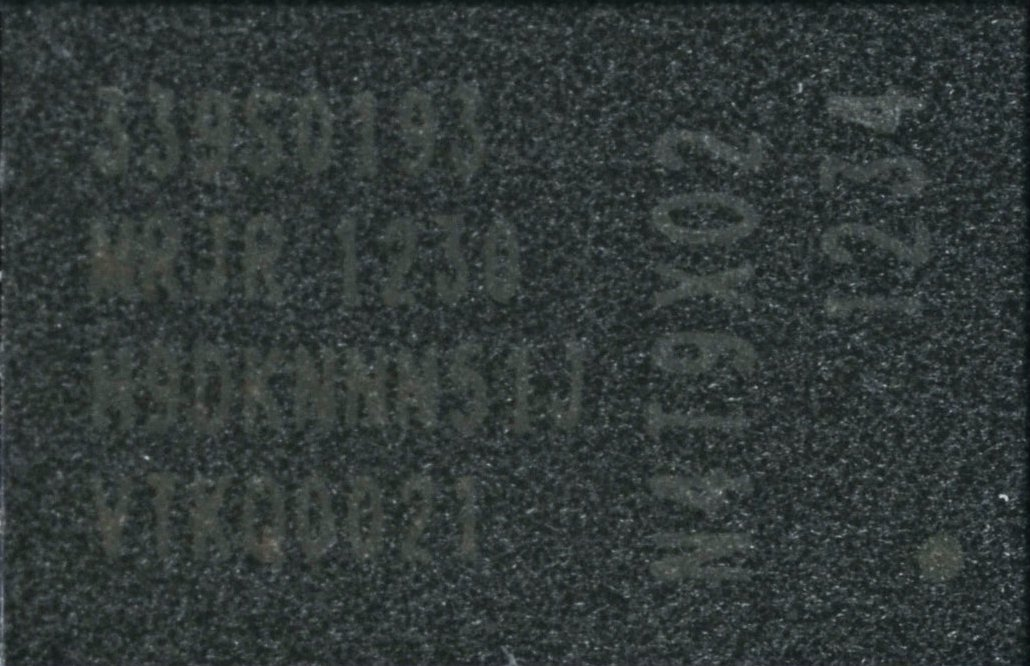
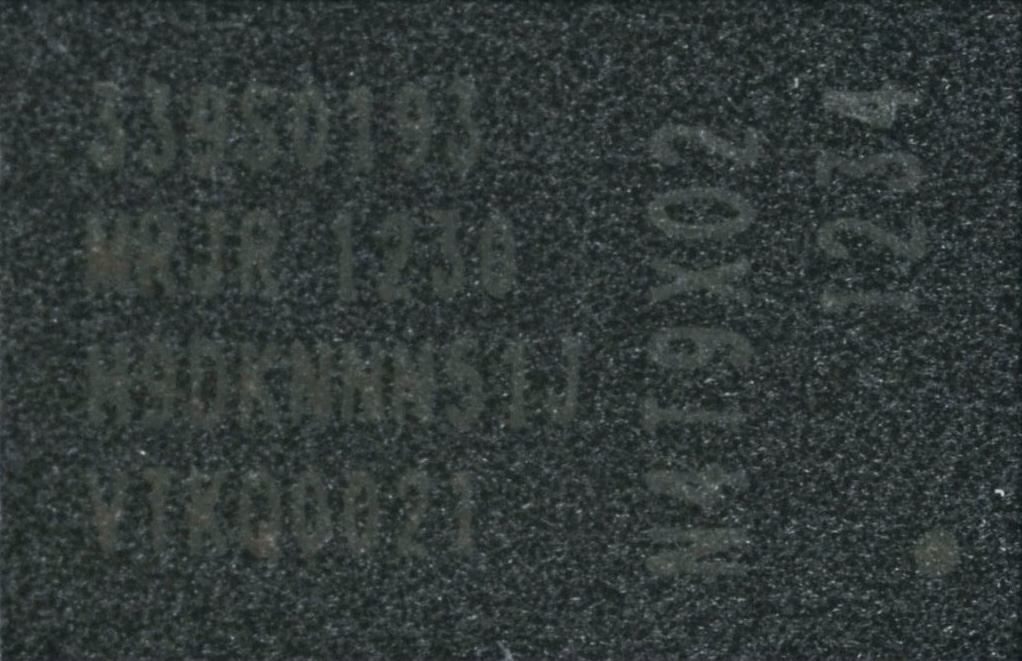
Updated some pictures

diff --git a/map/map_v2.js b/map/map_v2.js
@@ -1785,7 +1785,7 @@ var map =
                 "iPhone 15 Pro Max",
                 "iPad mini (7th generation)"
             ],
-            "picture": "resources/images/Apple_A17.png",
+            "picture": "resources/images/Apple_A17.jpg",
             "roms": [
                 {
                     "title": "SecureROM for t8130si, iBoot-8104.0.0.200.24",
@@ -2135,7 +2135,7 @@ var map =
                 "AirPods Pro 2/3",
                 "AirPods 4"
             ],
-            "picture": "resources/images/Apple-H2.jpg",
+            "picture": "resources/images/H2.png",
             "roms": [
                 {
                     "title": "RTKitROM for t2016si, RTKitROM-212.0.0.200.37",
@@ -2160,7 +2160,7 @@ var map =
                 "iPhone 15 Pro [Max] and later",
                 "Apple Watch Series 9/Ultra 2 and later"
             ],
-            "picture": "resources/images/Apple_U2.png",
+            "picture": "resources/images/Apple_U2.jpg",
             "roms": [
                 {
                     "title": "RTKitROM for t2024si, RTKitROM-298.0.0.200.11",

diff --git a/index.html b/index.html
@@ -11,7 +11,7 @@
         <script type="text/javascript" src="js/3rd-party/mustache.min.js"></script>
         <script type="text/javascript" src="js/3rd-party/fuse.basic.min.js"></script>
 
-        <script type="text/javascript" src="map/map_v2.js?v=0"></script>
+        <script type="text/javascript" src="map/map_v2.js?v=1"></script>
         <script type="text/javascript" src="js/index.js?v=19"></script>
 
         <title>Apple ROM collection</title>
